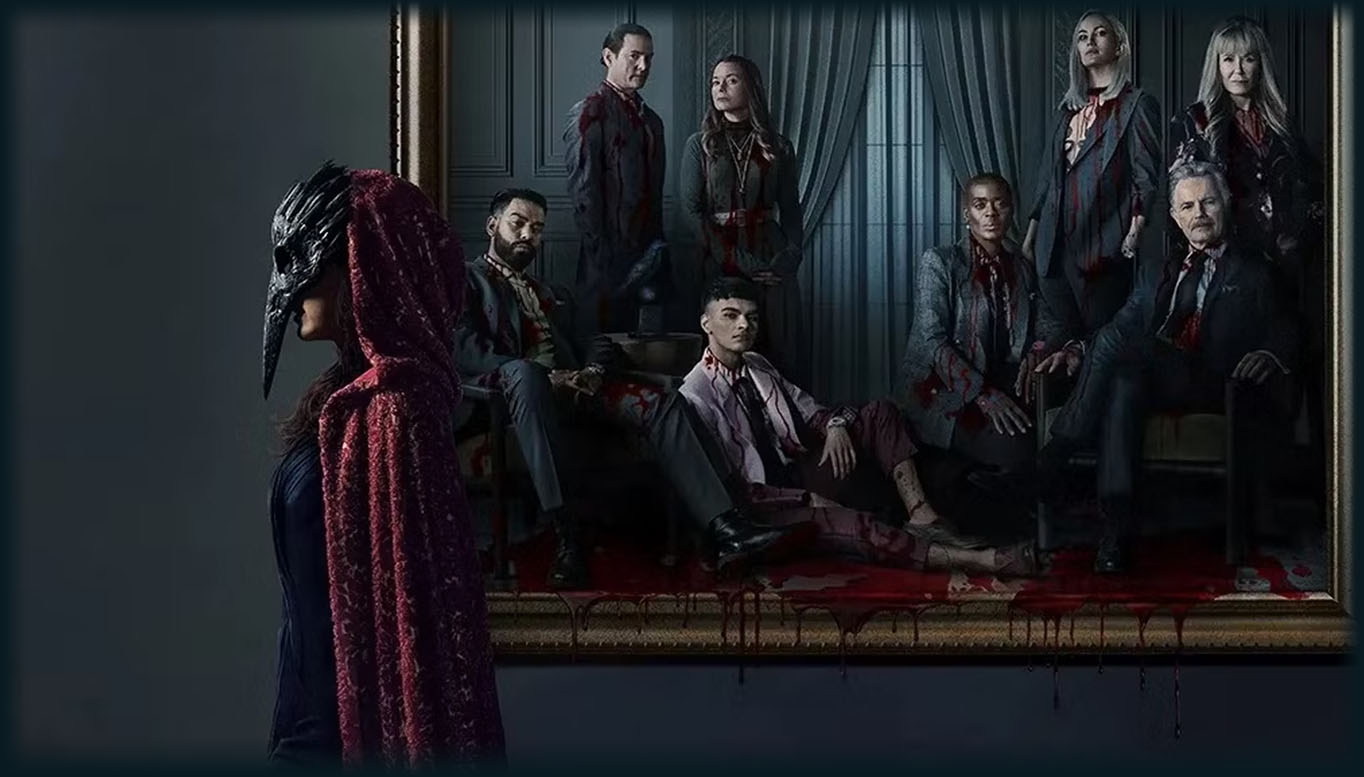
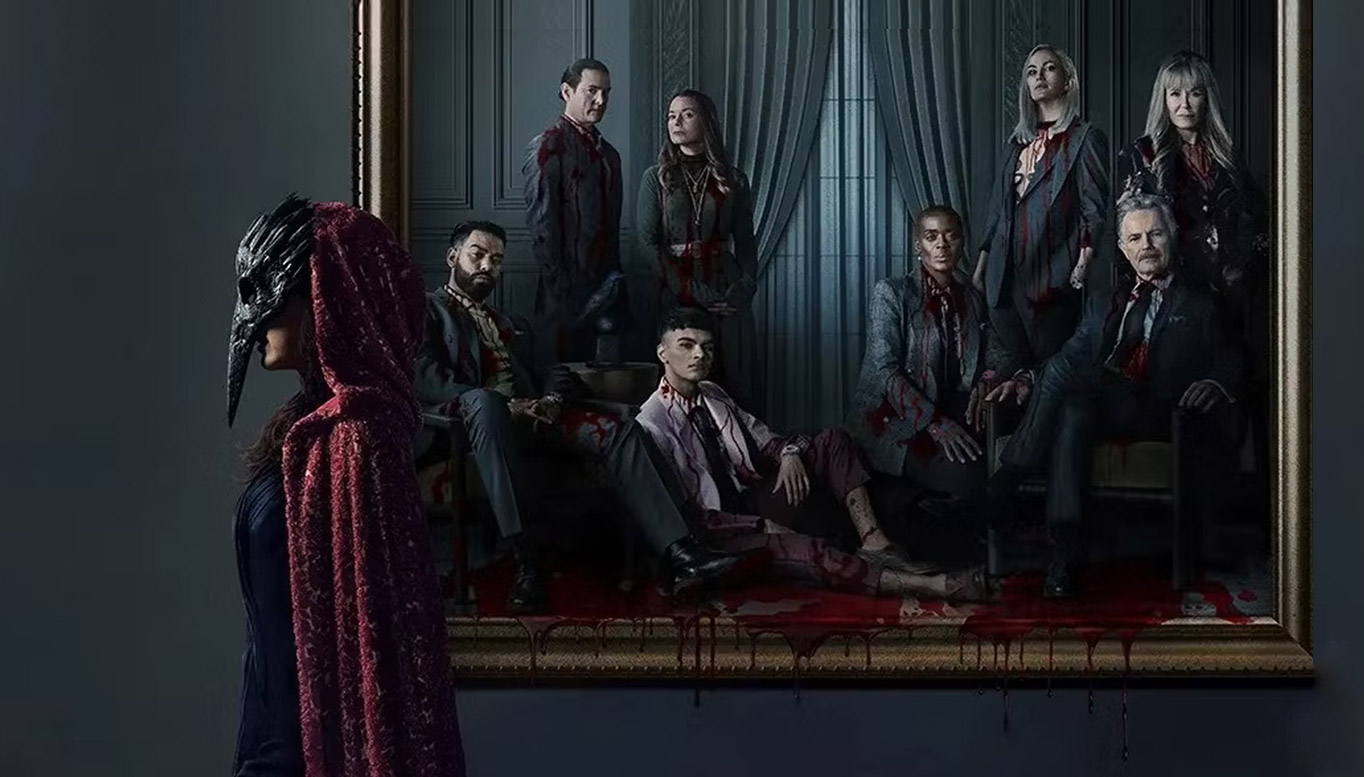
fundir titulos. trancision. presonalizar lightbox. diseño contacto.

diff --git a/css/estilos.css b/css/estilos.css
@@ -145,8 +145,60 @@ section article div{
 	color: #ffffff;
 }
 
+.principal{
+	-webkit-mask-image: linear-gradient(to top, transparent 5%, black 75%);
+	mask-image: linear-gradient(to top, transparent 5%, black 75%); 
+}
+.principal{
+	-webkit-animation: fadein 3s; /* Safari, Chrome y Opera > 12.1 */
+	-moz-animation: fadein 3s; /* Firefox < 16 */
+	 -ms-animation: fadein 3s; /* Internet Explorer */
+	  -o-animation: fadein 3s; /* Opera < 12.1 */
+		 animation: fadein 3s;
+
+}
+
+.principal div .logoPrincipal{
+	-webkit-animation: fadein 5s; /* Safari, Chrome y Opera > 12.1 */
+	-moz-animation: fadein 5s; /* Firefox < 16 */
+	 -ms-animation: fadein 5s; /* Internet Explorer */
+	  -o-animation: fadein 5s; /* Opera < 12.1 */
+		 animation: fadein 5s;
+
+}
+
+@keyframes fadein {
+    from { opacity: 0; }
+    to   { opacity: 1; }
+}
+
+/* Firefox < 16 */
+@-moz-keyframes fadein {
+    from { opacity: 0; }
+    to   { opacity: 1; }
+}
+
+/* Safari, Chrome y Opera > 12.1 */
+@-webkit-keyframes fadein {
+    from { opacity: 0; }
+    to   { opacity: 1; }
+}
+
+/* Internet Explorer */
+@-ms-keyframes fadein {
+    from { opacity: 0; }
+    to   { opacity: 1; }
+}
+
+/* Opera < 12.1 */
+@-o-keyframes fadein {
+    from { opacity: 0; }
+    to   { opacity: 1; }
+}
+
+
 .principal#principal{
-	background-image: url(../images/usher-home.jpg);
+	background-image: url(../images/usher-home.png);
 }
 
 .principal#elenco{
@@ -162,7 +214,7 @@ section article div{
 }
 
 .principal#resenas{
-	background-image: url(../images/usher-resenas-v2.jpg);
+	background-image: url(../images/usher-resenas.jpg);
 }
 
 .principal#contacto{
@@ -482,7 +534,10 @@ h1{
 	width:40%;
 	min-width:300px;
 	height:440px;
-	background:var(--color-frente);
+	/* background:var(--color-frente); */
+	background-image:url(../images/usher-formulario.jpg);
+	background-repeat:repeat;
+	background-size:contain;
 	border-radius:8px;
 	box-shadow:0 0 40px -10px #000;
 	margin:calc(1vh) auto;
@@ -807,7 +862,10 @@ section{
 .form{
 	width:100%;
 	height:440px;
-	background:var(--color-frente);
+	/* background:var(--color-frente); */
+	background-image:url(../images/usher-formulario.jpg);
+	background-repeat:repeat;
+	background-size:contain;
 	border-radius:8px;
 	box-shadow:0 0 40px -10px #000;
 	margin:calc(1vh) 5vw;

diff --git a/contacto.html b/contacto.html
@@ -64,17 +64,17 @@
                     </div>
                 </form>
                 <aside>
-                    <img src="./images/usher-contacto-aside.jpeg" alt="poe escribiendo">
+                    <img src="./images/usher-contacto-aside.jpg" alt="poe escribiendo">
                 </aside>
         </article>
     </section>
     <button onclick="topFunction()" id="botonVolverArriba" title="Go to top"><img src="images/to-top-b.png" alt="volver arriba"></button> 
     <footer>
         <div class="redes">
-            <a href=""><img src="./images/redes/facebook-f-b.png" alt="link a x"></a>
-            <a href=""><img src="./images/redes/x-twitter-b.png" alt="link a x"></a>
-            <a href=""><img src="./images/redes/youtube-b.png" alt="link a x"></a>
-            <a href=""><img src="./images/redes/instagram-b.png" alt="link a x"></a>
+            <a class="redesHome" href="https://www.facebook.com/thehauntingofnetflix/" target="_blank"><img src="./images/redes/facebook-f-b.png" alt="link al facebook de la serie"></a>
+            <a class="redesHome" href="https://www.youtube.com/watch?v=yvuAWVzP6wI"><img src="./images/redes/youtube-b.png" alt="link al trailer en youtube"></a>
+            <a class="redesHome" href="https://www.instagram.com/thefallofhouseofusher/"><img src="./images/redes/instagram-b.png" alt="link al instagram de la serie"></a>
+            <a class="redesHome" href="https://www.netflix.com/ar/title/81414665" target="_blank"><img src="./images/redes/netflix.png" alt="link a la serie en netflix"></a>            
         </div>
         <div class="copyright">
             <p> © Realizado por Tocci, Cristian</p>

diff --git a/index.html b/index.html
@@ -71,10 +71,10 @@
     <button onclick="topFunction()" id="botonVolverArriba" title="Go to top"><img src="images/to-top-b.png" alt="volver arriba"></button> 
     <footer>
         <div class="redes">
-            <a class="redesHome" href=""><img src="./images/redes/facebook-f-b.png" alt="link a x"></a>
-            <a class="redesHome" href=""><img src="./images/redes/x-twitter-b.png" alt="link a x"></a>
-            <a class="redesHome" href=""><img src="./images/redes/youtube-b.png" alt="link a x"></a>
-            <a class="redesHome" href=""><img src="./images/redes/instagram-b.png" alt="link a x"></a>
+            <a class="redesHome" href="https://www.facebook.com/thehauntingofnetflix/" target="_blank"><img src="./images/redes/facebook-f-b.png" alt="link al facebook de la serie"></a>
+            <a class="redesHome" href="https://www.youtube.com/watch?v=yvuAWVzP6wI"><img src="./images/redes/youtube-b.png" alt="link al trailer en youtube"></a>
+            <a class="redesHome" href="https://www.instagram.com/thefallofhouseofusher/"><img src="./images/redes/instagram-b.png" alt="link al instagram de la serie"></a>
+            <a class="redesHome" href="https://www.netflix.com/ar/title/81414665" target="_blank"><img src="./images/redes/netflix.png" alt="link a la serie en netflix"></a>            
         </div>
         <div class="copyright">
             <p> © Realizado por Tocci, Cristian</p>

diff --git a/resenas.html b/resenas.html
@@ -84,10 +84,10 @@ marco[...]”
     <button onclick="topFunction()" id="botonVolverArriba" title="Go to top"><img src="images/to-top-b.png" alt="volver arriba"></button> 
     <footer>
         <div class="redes">
-            <a href=""><img src="./images/redes/facebook-f-b.png" alt="link a x"></a>
-            <a href=""><img src="./images/redes/x-twitter-b.png" alt="link a x"></a>
-            <a href=""><img src="./images/redes/youtube-b.png" alt="link a x"></a>
-            <a href=""><img src="./images/redes/instagram-b.png" alt="link a x"></a>
+            <a class="redesHome" href="https://www.facebook.com/thehauntingofnetflix/" target="_blank"><img src="./images/redes/facebook-f-b.png" alt="link al facebook de la serie"></a>
+            <a class="redesHome" href="https://www.youtube.com/watch?v=yvuAWVzP6wI"><img src="./images/redes/youtube-b.png" alt="link al trailer en youtube"></a>
+            <a class="redesHome" href="https://www.instagram.com/thefallofhouseofusher/"><img src="./images/redes/instagram-b.png" alt="link al instagram de la serie"></a>
+            <a class="redesHome" href="https://www.netflix.com/ar/title/81414665" target="_blank"><img src="./images/redes/netflix.png" alt="link a la serie en netflix"></a>            
         </div>
         <div class="copyright">
             <p> © Realizado por Tocci, Cristian</p>

diff --git a/adaptaciones.html b/adaptaciones.html
@@ -232,10 +232,10 @@
     <button onclick="topFunction()" id="botonVolverArriba" title="Go to top"><img src="images/to-top-b.png" alt="volver arriba"></button> 
     <footer>
         <div class="redes">
-            <a href=""><img src="./images/redes/facebook-f-b.png" alt="link a x"></a>
-            <a href=""><img src="./images/redes/x-twitter-b.png" alt="link a x"></a>
-            <a href=""><img src="./images/redes/youtube-b.png" alt="link a x"></a>
-            <a href=""><img src="./images/redes/instagram-b.png" alt="link a x"></a>
+            <a class="redesHome" href="https://www.facebook.com/thehauntingofnetflix/" target="_blank"><img src="./images/redes/facebook-f-b.png" alt="link al facebook de la serie"></a>
+            <a class="redesHome" href="https://www.youtube.com/watch?v=yvuAWVzP6wI"><img src="./images/redes/youtube-b.png" alt="link al trailer en youtube"></a>
+            <a class="redesHome" href="https://www.instagram.com/thefallofhouseofusher/"><img src="./images/redes/instagram-b.png" alt="link al instagram de la serie"></a>
+            <a class="redesHome" href="https://www.netflix.com/ar/title/81414665" target="_blank"><img src="./images/redes/netflix.png" alt="link a la serie en netflix"></a>            
         </div>
         <div class="copyright">
             <p> © Realizado por Tocci, Cristian</p>

diff --git a/elenco.html b/elenco.html
@@ -159,10 +159,10 @@
     <button onclick="topFunction()" id="botonVolverArriba" title="Go to top"><img src="images/to-top-b.png" alt="volver arriba"></button> 
     <footer>
         <div class="redes">
-            <a href=""><img src="./images/redes/facebook-f-b.png" alt="link a x"></a>
-            <a href=""><img src="./images/redes/x-twitter-b.png" alt="link a x"></a>
-            <a href=""><img src="./images/redes/youtube-b.png" alt="link a x"></a>
-            <a href=""><img src="./images/redes/instagram-b.png" alt="link a x"></a>
+            <a class="redesHome" href="https://www.facebook.com/thehauntingofnetflix/" target="_blank"><img src="./images/redes/facebook-f-b.png" alt="link al facebook de la serie"></a>
+            <a class="redesHome" href="https://www.youtube.com/watch?v=yvuAWVzP6wI"><img src="./images/redes/youtube-b.png" alt="link al trailer en youtube"></a>
+            <a class="redesHome" href="https://www.instagram.com/thefallofhouseofusher/"><img src="./images/redes/instagram-b.png" alt="link al instagram de la serie"></a>
+            <a class="redesHome" href="https://www.netflix.com/ar/title/81414665" target="_blank"><img src="./images/redes/netflix.png" alt="link a la serie en netflix"></a>            
         </div>
         <div class="copyright">
             <p> © Realizado por Tocci, Cristian</p>

diff --git a/personajes.html b/personajes.html
@@ -204,10 +204,10 @@
     <button onclick="topFunction()" id="botonVolverArriba" title="Go to top"><img src="images/to-top-b.png" alt="volver arriba"></button> 
     <footer>
         <div class="redes">
-            <a href=""><img src="./images/redes/facebook-f-b.png" alt="link a x"></a>
-            <a href=""><img src="./images/redes/x-twitter-b.png" alt="link a x"></a>
-            <a href=""><img src="./images/redes/youtube-b.png" alt="link a x"></a>
-            <a href=""><img src="./images/redes/instagram-b.png" alt="link a x"></a>
+            <a class="redesHome" href="https://www.facebook.com/thehauntingofnetflix/" target="_blank"><img src="./images/redes/facebook-f-b.png" alt="link al facebook de la serie"></a>
+            <a class="redesHome" href="https://www.youtube.com/watch?v=yvuAWVzP6wI"><img src="./images/redes/youtube-b.png" alt="link al trailer en youtube"></a>
+            <a class="redesHome" href="https://www.instagram.com/thefallofhouseofusher/"><img src="./images/redes/instagram-b.png" alt="link al instagram de la serie"></a>
+            <a class="redesHome" href="https://www.netflix.com/ar/title/81414665" target="_blank"><img src="./images/redes/netflix.png" alt="link a la serie en netflix"></a>            
         </div>
         <div class="copyright">
             <p> © Realizado por Tocci, Cristian</p>

diff --git a/galeria.html b/galeria.html
@@ -70,10 +70,10 @@
     <button onclick="topFunction()" id="botonVolverArriba" title="Go to top"><img src="images/to-top-b.png" alt="volver arriba"></button> 
     <footer>
         <div class="redes">
-            <a href=""><img src="./images/redes/facebook-f-b.png" alt="link a x"></a>
-            <a href=""><img src="./images/redes/x-twitter-b.png" alt="link a x"></a>
-            <a href=""><img src="./images/redes/youtube-b.png" alt="link a x"></a>
-            <a href=""><img src="./images/redes/instagram-b.png" alt="link a x"></a>
+            <a class="redesHome" href="https://www.facebook.com/thehauntingofnetflix/" target="_blank"><img src="./images/redes/facebook-f-b.png" alt="link al facebook de la serie"></a>
+            <a class="redesHome" href="https://www.youtube.com/watch?v=yvuAWVzP6wI"><img src="./images/redes/youtube-b.png" alt="link al trailer en youtube"></a>
+            <a class="redesHome" href="https://www.instagram.com/thefallofhouseofusher/"><img src="./images/redes/instagram-b.png" alt="link al instagram de la serie"></a>
+            <a class="redesHome" href="https://www.netflix.com/ar/title/81414665" target="_blank"><img src="./images/redes/netflix.png" alt="link a la serie en netflix"></a>            
         </div>
         <div class="copyright">
             <p> © Realizado por Tocci, Cristian</p>

diff --git a/ost.html b/ost.html
@@ -72,10 +72,10 @@
     <button onclick="topFunction()" id="botonVolverArriba" title="Go to top"><img src="images/to-top-b.png" alt="volver arriba"></button> 
     <footer>
         <div class="redes">
-            <a href=""><img src="./images/redes/facebook-f-b.png" alt="link a x"></a>
-            <a href=""><img src="./images/redes/x-twitter-b.png" alt="link a x"></a>
-            <a href=""><img src="./images/redes/youtube-b.png" alt="link a x"></a>
-            <a href=""><img src="./images/redes/instagram-b.png" alt="link a x"></a>
+            <a class="redesHome" href="https://www.facebook.com/thehauntingofnetflix/" target="_blank"><img src="./images/redes/facebook-f-b.png" alt="link al facebook de la serie"></a>
+            <a class="redesHome" href="https://www.youtube.com/watch?v=yvuAWVzP6wI"><img src="./images/redes/youtube-b.png" alt="link al trailer en youtube"></a>
+            <a class="redesHome" href="https://www.instagram.com/thefallofhouseofusher/"><img src="./images/redes/instagram-b.png" alt="link al instagram de la serie"></a>
+            <a class="redesHome" href="https://www.netflix.com/ar/title/81414665" target="_blank"><img src="./images/redes/netflix.png" alt="link a la serie en netflix"></a>            
         </div>
         <div class="copyright">
             <p> © Realizado por Tocci, Cristian</p>

diff --git a/referencias.html b/referencias.html
@@ -81,10 +81,10 @@
     <button onclick="topFunction()" id="botonVolverArriba" title="Go to top"><img src="images/to-top-b.png" alt="volver arriba"></button> 
     <footer>
         <div class="redes">
-            <a href=""><img src="./images/redes/facebook-f-b.png" alt="link a x"></a>
-            <a href=""><img src="./images/redes/x-twitter-b.png" alt="link a x"></a>
-            <a href=""><img src="./images/redes/youtube-b.png" alt="link a x"></a>
-            <a href=""><img src="./images/redes/instagram-b.png" alt="link a x"></a>
+            <a class="redesHome" href="https://www.facebook.com/thehauntingofnetflix/" target="_blank"><img src="./images/redes/facebook-f-b.png" alt="link al facebook de la serie"></a>
+            <a class="redesHome" href="https://www.youtube.com/watch?v=yvuAWVzP6wI"><img src="./images/redes/youtube-b.png" alt="link al trailer en youtube"></a>
+            <a class="redesHome" href="https://www.instagram.com/thefallofhouseofusher/"><img src="./images/redes/instagram-b.png" alt="link al instagram de la serie"></a>
+            <a class="redesHome" href="https://www.netflix.com/ar/title/81414665" target="_blank"><img src="./images/redes/netflix.png" alt="link a la serie en netflix"></a>            
         </div>
         <div class="copyright">
             <p> © Realizado por Tocci, Cristian</p>

diff --git a/css/lightbox.css b/css/lightbox.css
@@ -32,7 +32,13 @@ body.lb-disable-scrolling {
   border-radius: 3px;
 
   /* Image border */
-  border: 4px solid white;
+  /* border: 4px solid white; */
+  border-width: 4px;
+  border-style: solid;
+  border-image: linear-gradient(    
+    white, 
+    #1E6672
+  ) 1 100%;
 }
 
 a img {
@@ -54,7 +60,8 @@ a img {
 
   /* Background color behind image.
      This is visible during transitions. */
-  background-color: white;
+  /* background-color: white; */
+  background-color: #1E6672;
 }
 
 .lb-outerContainer:after {
@@ -75,8 +82,10 @@ a img {
 
 .lb-cancel {
   display: block;
-  width: 32px;
-  height: 32px;
+  /* width: 32px;
+  height: 32px; */
+  width:128px;
+  height:128px;
   margin: 0 auto;
   background: url(../images/loading.gif) no-repeat;
 }
@@ -189,8 +198,10 @@ a img {
 .lb-data .lb-close {
   display: block;
   float: right;
-  width: 30px;
-  height: 30px;
+  /* width: 30px;
+  height: 30px; */
+  width: 75px;
+  height: 71px;
   background: url(../images/close.png) top right no-repeat;
   text-align: right;
   outline: none;
